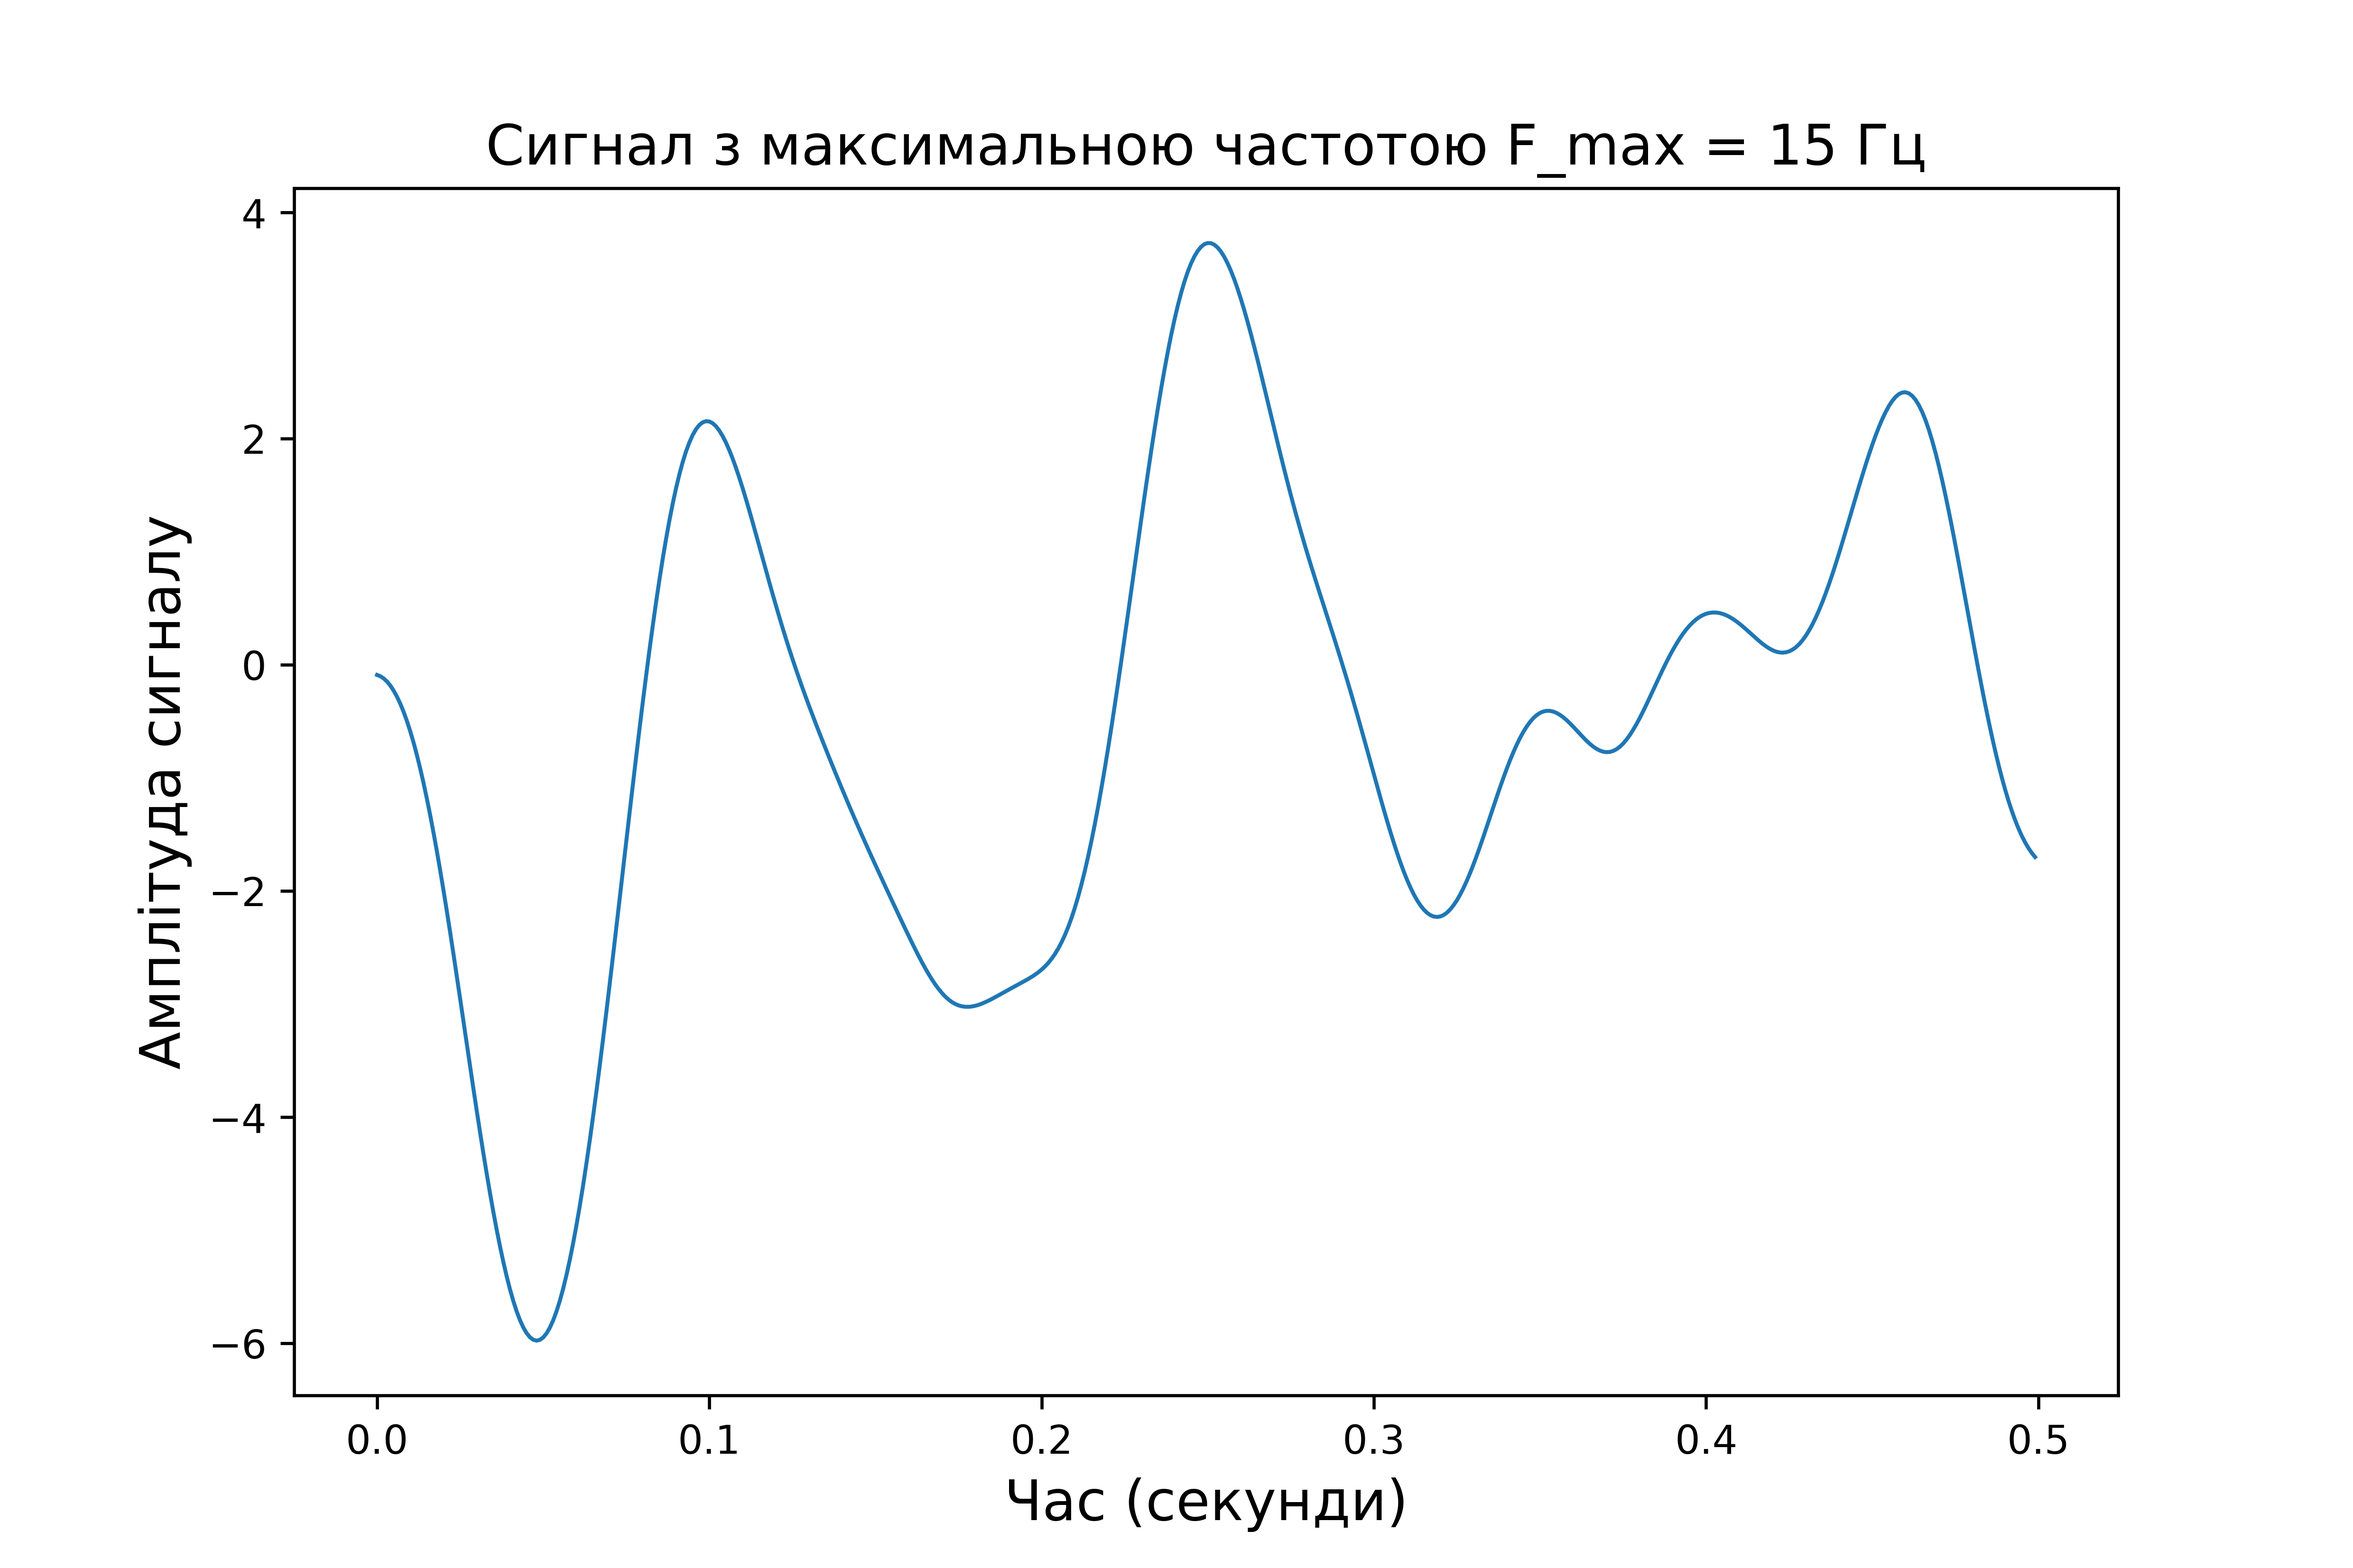
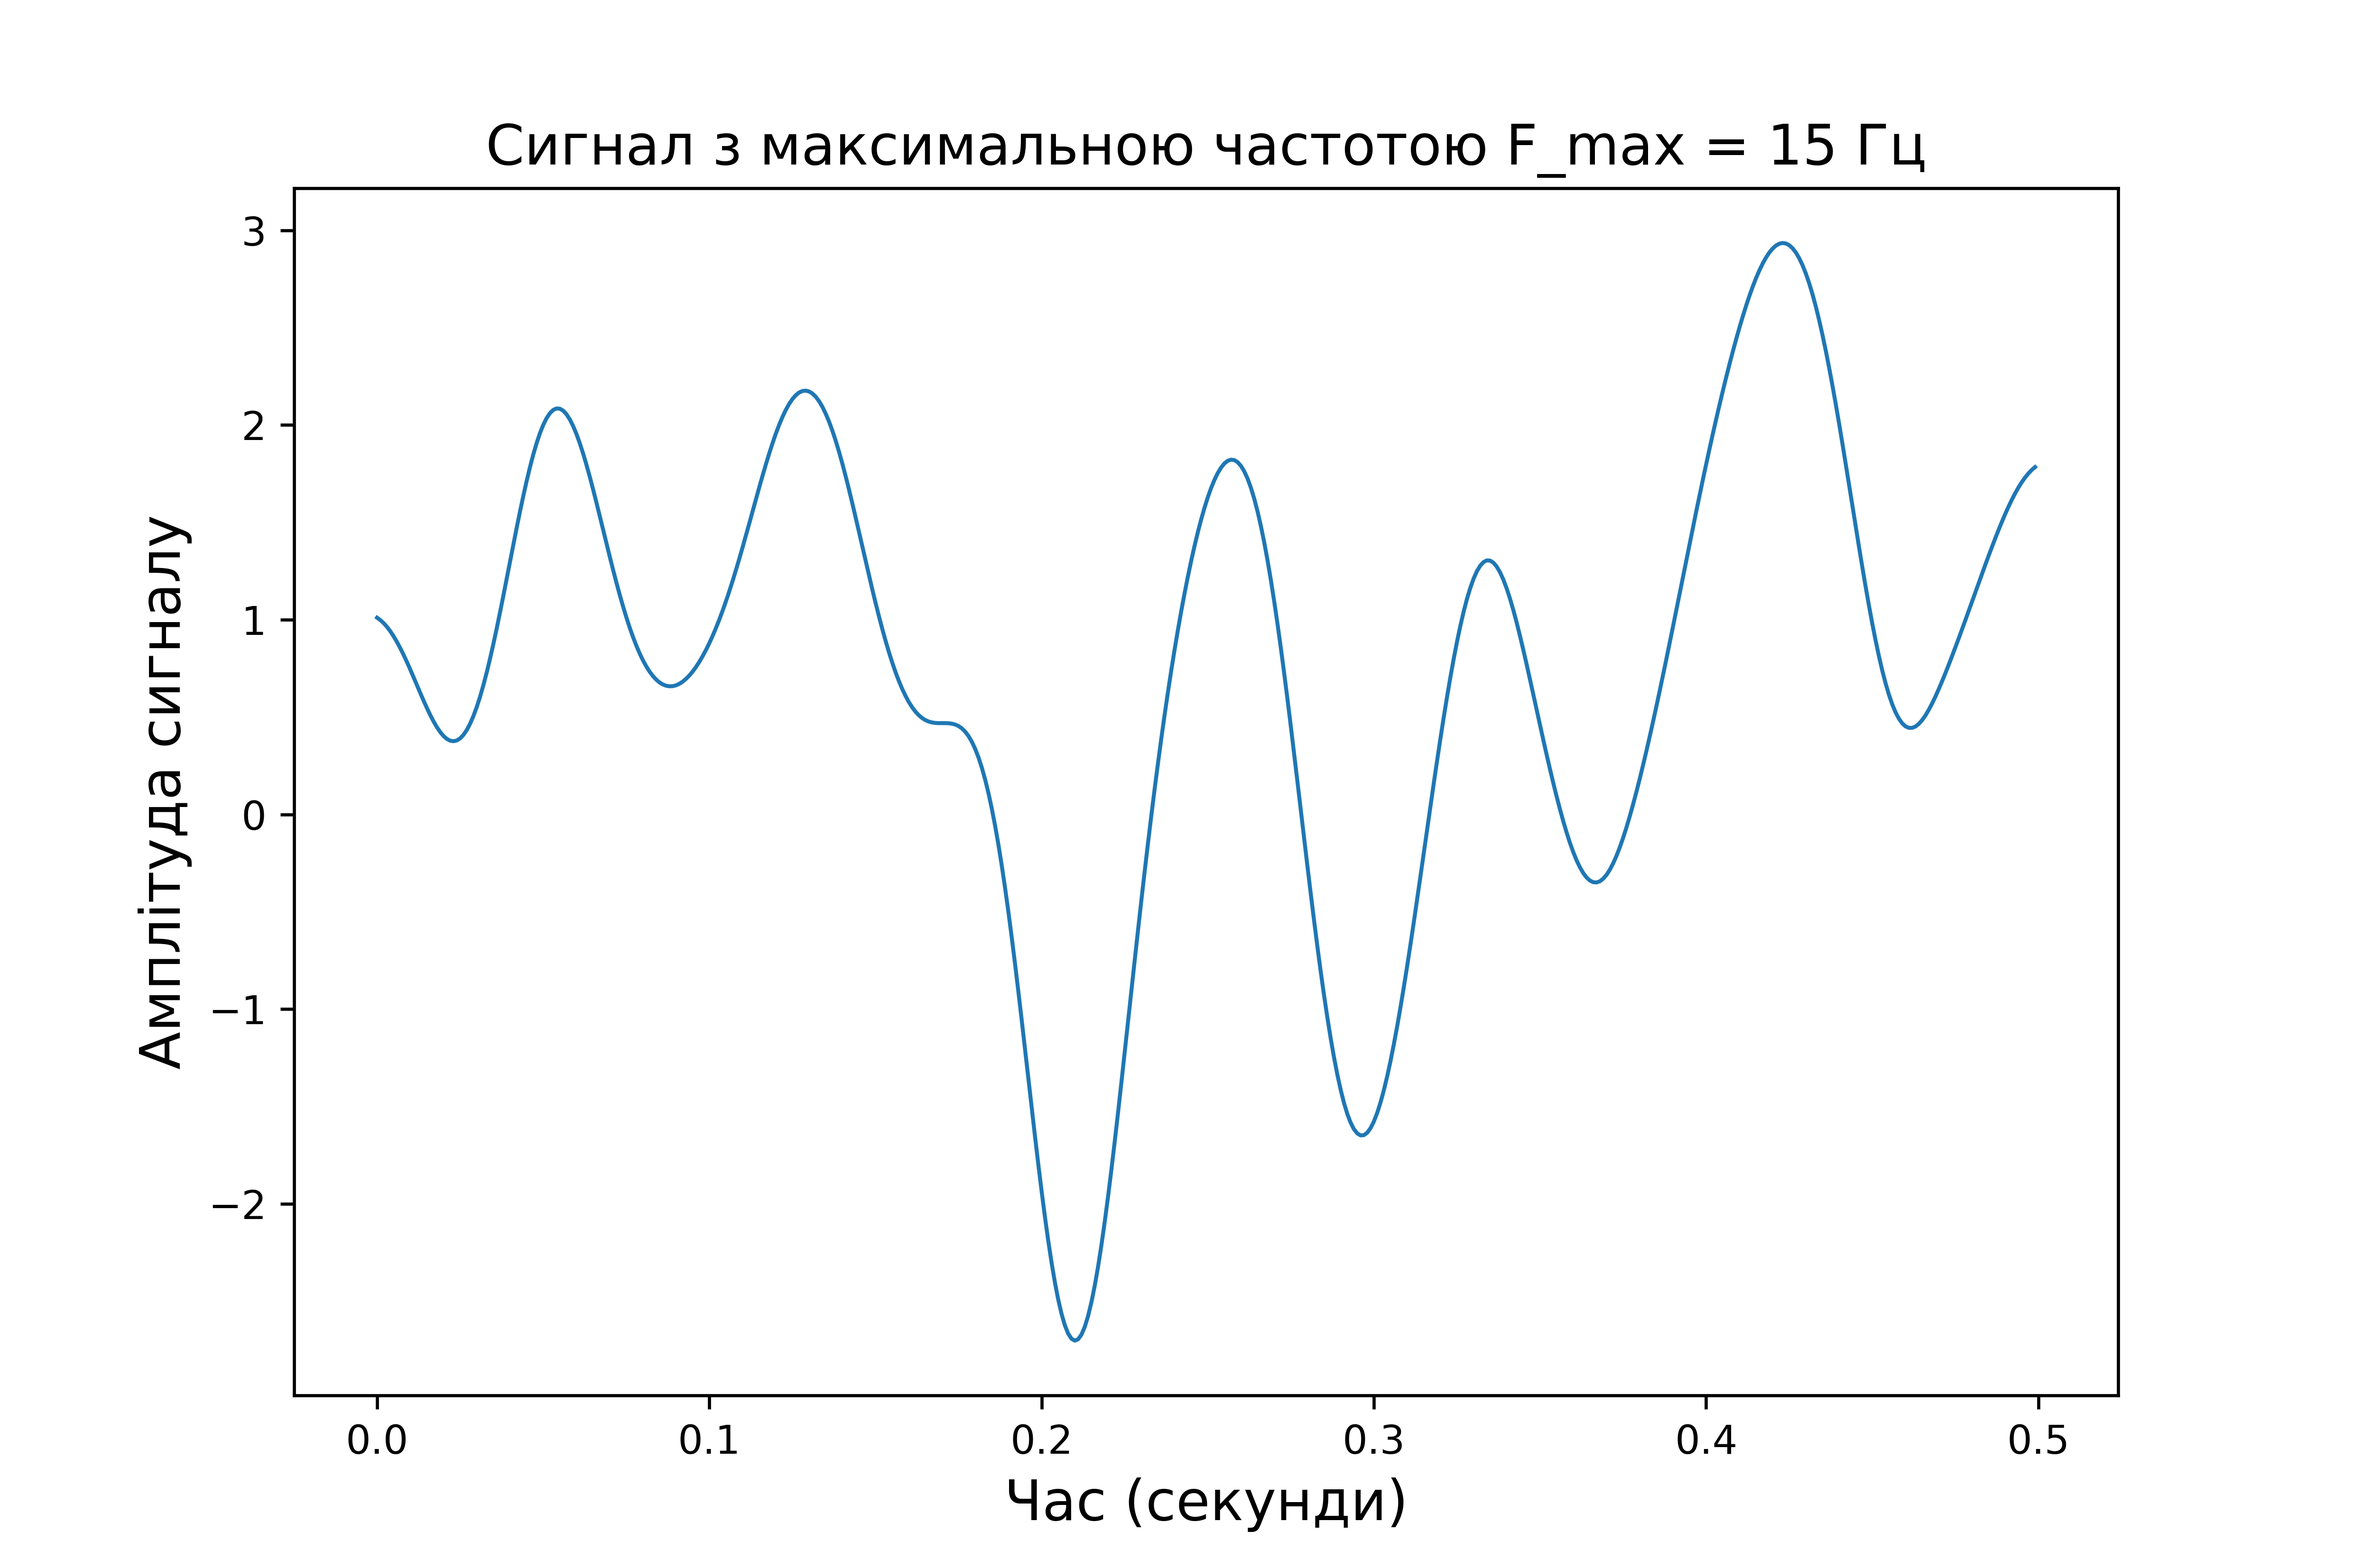
Signal processing, 3

diff --git a/SignalProcessing/SignalProcessing.py b/SignalProcessing/SignalProcessing.py
@@ -1,52 +1,156 @@
 from numpy.random import normal
-from numpy import abs, arange
+from numpy import abs, arange, zeros, array, var
 from scipy import fft
 from scipy.signal import butter, sosfiltfilt
 import matplotlib.pyplot as plt
 
 
-class SignalProcessing:
-    def __init__(self, signal_length, frequency, frequency_max):
-        self.__mean_distribution = 0
-        self.__standard_deviation = 10
-        self.__signal_length = signal_length
-        self.__frequency = frequency
+class Filter:
+    def __init__(self, frequency_max, frequency, signal):
         self.__frequency_max = frequency_max
-
-    def __signal_generation(self):
-        return normal(self.__mean_distribution, self.__standard_deviation, self.__signal_length)
-
-    def __time_ox(self):
-        return arange(self.__signal_length) / self.__frequency
+        self.__frequency = frequency
+        self.__signal = signal
 
     def __parameters_filter(self):
         w = self.__frequency_max / (self.__frequency / 2)
         return butter(3, w, 'low', output='sos')
 
-    def __filter(self):
-        return sosfiltfilt(self.__parameters_filter(), self.__signal_generation())
+    def filter(self):
+        return sosfiltfilt(self.__parameters_filter(), self.__signal)
 
-    def __graphics(self, x_lab, x, y_lab, y, type_graphics):
-        title = f"{type_graphics} з максимальною частотою F_max = {self.__frequency_max} Гц"
-        fig, ax = plt.subplots(figsize=(21 / 2.54, 14 / 2.54))
-        ax.plot(x, y, linewidth=1)
-        ax.set_xlabel(x_lab, fontsize=14)
-        ax.set_ylabel(y_lab, fontsize=14)
-        plt.title(title, fontsize=14)
+    def recovery_filter(self, signal: list):
+        recovery_signal = []
+        for i in signal:
+            recovery_signal += [list(sosfiltfilt(self.__parameters_filter(), i))]
+        return recovery_signal
+
+
+class SignalProcessing:
+    def __init__(self, signal_length, frequency, frequency_max, frequency_filter):
+        self.__mean_distribution = 0
+        self.__standard_deviation = 10
+        self.__frequency_filter = frequency_filter
+        self.__signal_length = signal_length
+        self.__dt = [2, 4, 8, 16]
+        self.__signal = normal(self.__mean_distribution, self.__standard_deviation, self.__signal_length)
+        self.__frequency = frequency
+        self.__frequency_max = frequency_max
+        self.__low_pass_filter = Filter(frequency_max, frequency, self.__signal).filter()
+        self.__recovery_filter = Filter(frequency_filter, frequency, self.__signal)
+
+    def __time_ox(self):
+        return arange(self.__signal_length) / self.__frequency
+
+    def __graphics(self, x_lab, x, y_lab, y, type_graphics: list):
+        if type_graphics[1] == "сигнал":
+            fig, ax = plt.subplots(figsize=(21 / 2.54, 14 / 2.54))
+            title = f"{type_graphics[0]} з максимальною частотою F_max = {self.__frequency_max} Гц"
+            ax.plot(x, y, linewidth=1)
+            ax.set_xlabel(x_lab, fontsize=14)
+            ax.set_ylabel(y_lab, fontsize=14)
+            plt.title(title, fontsize=14)
+        elif type_graphics[1] == "дискретизація":
+            fig, ax = plt.subplots(2, 2, figsize=(21 / 2.54, 14 / 2.54))
+            title = f"{type_graphics[0]} з кроком дискредитації Dt = {self.__dt} "
+            s = 0
+            for i in range(0, 2):
+                for j in range(0, 2):
+                    ax[i][j].plot(x, y[s], linewidth=1)
+                    s += 1
+            fig.supxlabel(x_lab, fontsize=14)
+            fig.supylabel(y_lab, fontsize=14)
+            plt.suptitle(title, fontsize=14)
+        elif type_graphics[1] == "дисперсії" or type_graphics[1] == "співвідношення сигнал-шум":
+            fig, ax = plt.subplots(figsize=(21 / 2.54, 14 / 2.54))
+            title = f"Залежність {type_graphics[1]} від кроку дискретизації"
+            ax.plot(x, y, linewidth=1)
+            ax.grid()
+            ax.set_xlabel(x_lab, fontsize=14)
+            ax.set_ylabel(y_lab, fontsize=14)
+            plt.title(title, fontsize=14)
+        else:
+            return False
         fig.savefig(fname=f"./figures/{title}", dpi=600)
 
     def __signal_spectrum(self):
-        x = abs(fft.fftshift(fft.fft(self.__filter())))
+        x = abs(fft.fftshift(fft.fft(self.__low_pass_filter)))
         y = fft.fftshift(fft.fftfreq(self.__signal_length, 1 / self.__signal_length))
         return y, x
 
-    def result(self):
-        self.__graphics(x_lab="Час (секунди)", y_lab="Амплітуда сигналу", x=self.__time_ox(), y=self.__filter(),
-                        type_graphics="Сигнал")
+    def __discretization_signal(self):
+        discrete_signals = []
+        for Dt in self.__dt:
+            discrete_signal = zeros(self.__signal_length)
+            for i in range(0, round(self.__signal_length / Dt)):
+                discrete_signal[i * Dt] = self.__recovery_filter.filter()[i * Dt]
+            discrete_signals += [list(discrete_signal)]
+        return discrete_signals
+
+    def __discretization_spectrum(self):
+        x = fft.fftshift(fft.fftfreq(self.__signal_length, 1 / self.__signal_length))
+        discrete_spectrum = []
+        for Dt in range(len(self.__dt)):
+            y = abs(fft.fftshift(fft.fft(self.__discretization_signal()[Dt])))
+            discrete_spectrum += [list(y)]
+        return x, discrete_spectrum
+
+    def __signal_recovery(self):
+        return self.__recovery_filter.recovery_filter(self.__discretization_signal())
+
+    def __signals(self, type_graphics):
+        self.__graphics(x_lab="Час (секунди)", y_lab="Амплітуда сигналу", x=self.__time_ox(), y=self.__low_pass_filter,
+                        type_graphics=["Сигнал", type_graphics])
         self.__graphics(x_lab="Частота (Гц)", y_lab="Амплітуда спектру", x=self.__signal_spectrum()[0],
-                        y=self.__signal_spectrum()[1], type_graphics="Спектр сигналу")
+                        y=self.__signal_spectrum()[1], type_graphics=["Спектр сигналу", type_graphics])
+
+    def __signal_difference(self):
+        signal_difference = [self.__signal]
+        for i in self.__signal_recovery():
+            signal_difference += [array(i) - self.__signal]
+        return signal_difference
+
+    def __signal_dispersion(self):
+        signal_dispersion = []
+        for i in self.__signal_difference():
+            signal_dispersion += [var(i)]
+        return signal_dispersion
+
+    def __signal_to_noise(self):
+        signal_to_noise = []
+        signal_dispersion = self.__signal_dispersion()
+        for i in signal_dispersion:
+            signal_to_noise += [(signal_dispersion[0] - i)]
+        return signal_to_noise
+
+    def __ratios(self):
+        self.__graphics(x_lab="Крок дискретизації", y_lab="Дисперсія", x=self.__dt,
+                        y=self.__signal_dispersion()[1:], type_graphics=[None, "дисперсії"])
+        self.__graphics(x_lab="Крок дискретизації", y_lab="CCШ", x=self.__dt,
+                        y=self.__signal_to_noise()[1:], type_graphics=[None, "співвідношення сигнал-шум"])
+
+    def __discretization(self, type_graphics):
+        self.__graphics(x_lab="Час (секунди)", y_lab="Амплітуда сигналу", x=self.__time_ox(),
+                        y=self.__discretization_signal(), type_graphics=["Сигнал", type_graphics])
+        x, y = self.__discretization_spectrum()
+        self.__graphics(x_lab="Частота (Гц)", y_lab="Амплітуда спектру", x=x,
+                        y=y, type_graphics=["Спектр сигналу", type_graphics])
+        self.__graphics(x_lab="Час (секунди)", y_lab="Амплітуда сигналу", x=self.__time_ox(),
+                        y=self.__signal_recovery(), type_graphics=["Відновлені аналогові сигнали", type_graphics])
+
+    def result(self, type_graphics: str):
+        type_graphics = type_graphics.lower().strip()
+        if type_graphics == "сигнал":
+            self.__signals("сигнал")
+        elif type_graphics == "дискретизація":
+            self.__discretization("дискретизація")
+        elif type_graphics == "співвідношення":
+            self.__ratios()
+        elif type_graphics == "всі":
+            self.__signals("сигнал")
+            self.__discretization("дискретизація")
+            self.__ratios()
 
 
 if __name__ == "__main__":
-    a = SignalProcessing(500, 1000, 15)
-    a.result()
+    a = SignalProcessing(500, 1000, 15, 22)
+    a.result(type_graphics="всі")
